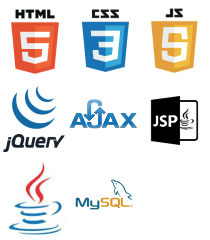
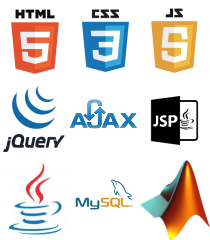
#2 matlab 포트폴리오 modal 작성

Changed region(s): [[0.6571, 0.6708, 1.0, 1.0]]

diff --git a/index.html b/index.html
@@ -134,6 +134,14 @@
             background-position: 0px 80px;
             text-indent: -10000px;
         }
+        .Matlab-logo {
+            background-image: url(img/skill_Image.png);
+            margin-left: 45px;
+            width: 70px;
+            height: 80px;
+            background-position: 70px 80px;
+            text-indent: -10000px;
+        }
         .JSP-logo {
             background-image: url(img/skill_Image.png);
             margin-left: 45px;
@@ -157,6 +165,12 @@
             height: 80px;
             background-position: 140px 80px;
             text-indent: -10000px;
+        }
+        .carousel-inner > .item > img {
+            min-width: 100%;
+        }
+        .modal p {
+            font-size: 15px;
         }
     </style>
 </head>
@@ -245,60 +259,82 @@
                     </div>
                     <h3>HTML5</h3>
                 </div>
-                <div class="col-lg-2 col-lg-offset-1">
+                <div class="col-lg-2">
                     <div class="CSS-logo">
                         <span>CSS</span>
                     </div>
                     <h3>CSS</h3>
                 </div>
-                <div class="col-lg-2 col-lg-offset-1">
+                <div class="col-lg-2">
                     <div class="JS-logo">
                         <span>JavaScript</span>
                     </div>
                     <h3>JavaScript</h3>
                 </div>
-                <div class="col-lg-2 col-lg-offset-1">
+                <div class="col-lg-2">
                     <div class="Jquery-logo">
                         <span>Jquery</span>
                     </div>
                     <h3>Jquery</h3>
                 </div>
-                <div class="col-lg-2 col-lg-offset-1" style="margin-top: 40px;">
+                <div class="col-lg-2">
                     <div class="Java-logo">
                         <span>Java</span>
                     </div>
                     <h3>Java</h3>
                 </div>
                 <div class="col-lg-2 col-lg-offset-1" style="margin-top: 40px;">
+                    <div class="Matlab-logo">
+                        <span>Matlab</span>
+                    </div>
+                    <h3>Matlab</h3>
+                </div>
+                <div class="col-lg-2" style="margin-top: 40px;">
                     <div class="JSP-logo">
                         <span>JSP</span>
                     </div>
                     <h3>JSP</h3>
                 </div>
-                <div class="col-lg-2 col-lg-offset-1" style="margin-top: 40px;">
+                <div class="col-lg-2" style="margin-top: 40px;">
                     <div class="Ajax-logo">
                         <span>Ajax</span>
                     </div>
                     <h3>Ajax</h3>
                 </div>
-                <div class="col-lg-2 col-lg-offset-1" style="margin-top: 40px;">
+                <div class="col-lg-2" style="margin-top: 40px;">
                     <div class="mySql-logo">
                         <span>mySql</span>
                     </div>
                     <h3>mySql</h3>
                 </div>
+                <div class="col-lg-2" style="margin-top: 40px;">                    
+                    <h3 style="margin-top: 40px;">ETC..</h3>
+                </div>
             </div>
             <br>
             <div class="col-lg-4 col-lg-offset-4">
-                   <a class="btn btn-primary btn-xl scroll" href="#portfolio">포트폴리오에서 관련 내용을 볼 수 있습니다.</a>
-                </div>
+               <a class="btn btn-primary btn-xl scroll" href="#portfolio">포트폴리오에서 관련 내용을 볼 수 있습니다.</a>
+            </div>
         </div>
     </section>
     <!-- // skills 영역 -->
     
     <!-- portfolio 영역 -->
     <section class="bg-primary" id="portfolio" style="height: 600px;">
-        portfolio 영역
+        <div class="container portfolio">
+            <div class="row">
+                <div class="col-lg-8 col-lg-offset-2 text-center">
+                    <h2>My Portfolio</h2>
+                    <hr class="light my-4">
+                    <br>
+                </div>
+            </div>
+            <div class="col-md-6 col-lg-6">
+                <a data-toggle="modal" data-target="#Portfolio1">
+                    <img src="img/Port1_Thumb.png" style="cursor: pointer" />
+                </a>
+          </div>
+        </div>
     </section>
     <!-- // portfolio 영역 -->
     
@@ -331,7 +367,7 @@
     </section>
     <!-- // contact 영역 -->
     
-    <!-- modal 영역 -->
+    <!-- 이력서 modal 영역 -->
     <div class="modal fade" id="Info" tabindex="-1" role="dialog">
         <div class="modal-dialog modal-lg">
             <div class="modal-content">
@@ -475,7 +511,32 @@
             </div>
         </div>
     </div>
-    <!-- modal 영역 -->
+    <!-- 이력서 modal 영역 -->
+    
+    <!-- 포트폴리오1 modal 영역 -->
+    <div class="modal fade" id="Portfolio1" tabindex="-1" role="dialog">
+        <div class="modal-dialog modal-lg">
+            <div class="modal-content">
+                <div class="modal-header">
+                    <h2>차량 번호판 추출 프로그램 - Matlab</h2>
+                </div>
+                <div class="modal-body">
+                    <img src="img/Portfolio/1.png" style="width: 100%; height: 100%;" />
+                    <p>대상 사진이 있는 파일 경로를 지정해주는 작업에서부터 시작하여 조건에 맞는 부분을 따로 번호판 영역으로 분리한 뒤,<br/>번호판의 규격과 색을 구분해 내고 번호판 내의 문자부분을 추출하는 것을 목표로 프로그램을 구현하였습니다.</p>
+                    <br/>
+                    <img src="img/Port1_Modal1.png" />
+                    <h3>자동차 사진에서 번호판 영역만 추출한 모습.</h3>
+                    <br/>
+                    <img src="img/Port1_Modal2.png" />
+                    <h3>번호판에서 번호부분을 추출한 모습.</h3>
+                </div>
+                <div class="modal-footer">
+                    <button type="button" class="btn btn-primary" data-dismiss="modal">Close</button>
+                </div>
+            </div>
+        </div>
+    </div>
+    
     <script src="http://code.jquery.com/jquery-3.3.1.min.js"></script>
     <!-- 합쳐지고 최소화된 최신 자바스크립트 -->
     <script src="https://maxcdn.bootstrapcdn.com/bootstrap/3.3.2/js/bootstrap.min.js"></script>
@@ -488,6 +549,7 @@
                 $('nav').removeClass('shrink');
             }
         });
+        
         
         
         /** 요소 클릭시 부드럽게 이동 */
